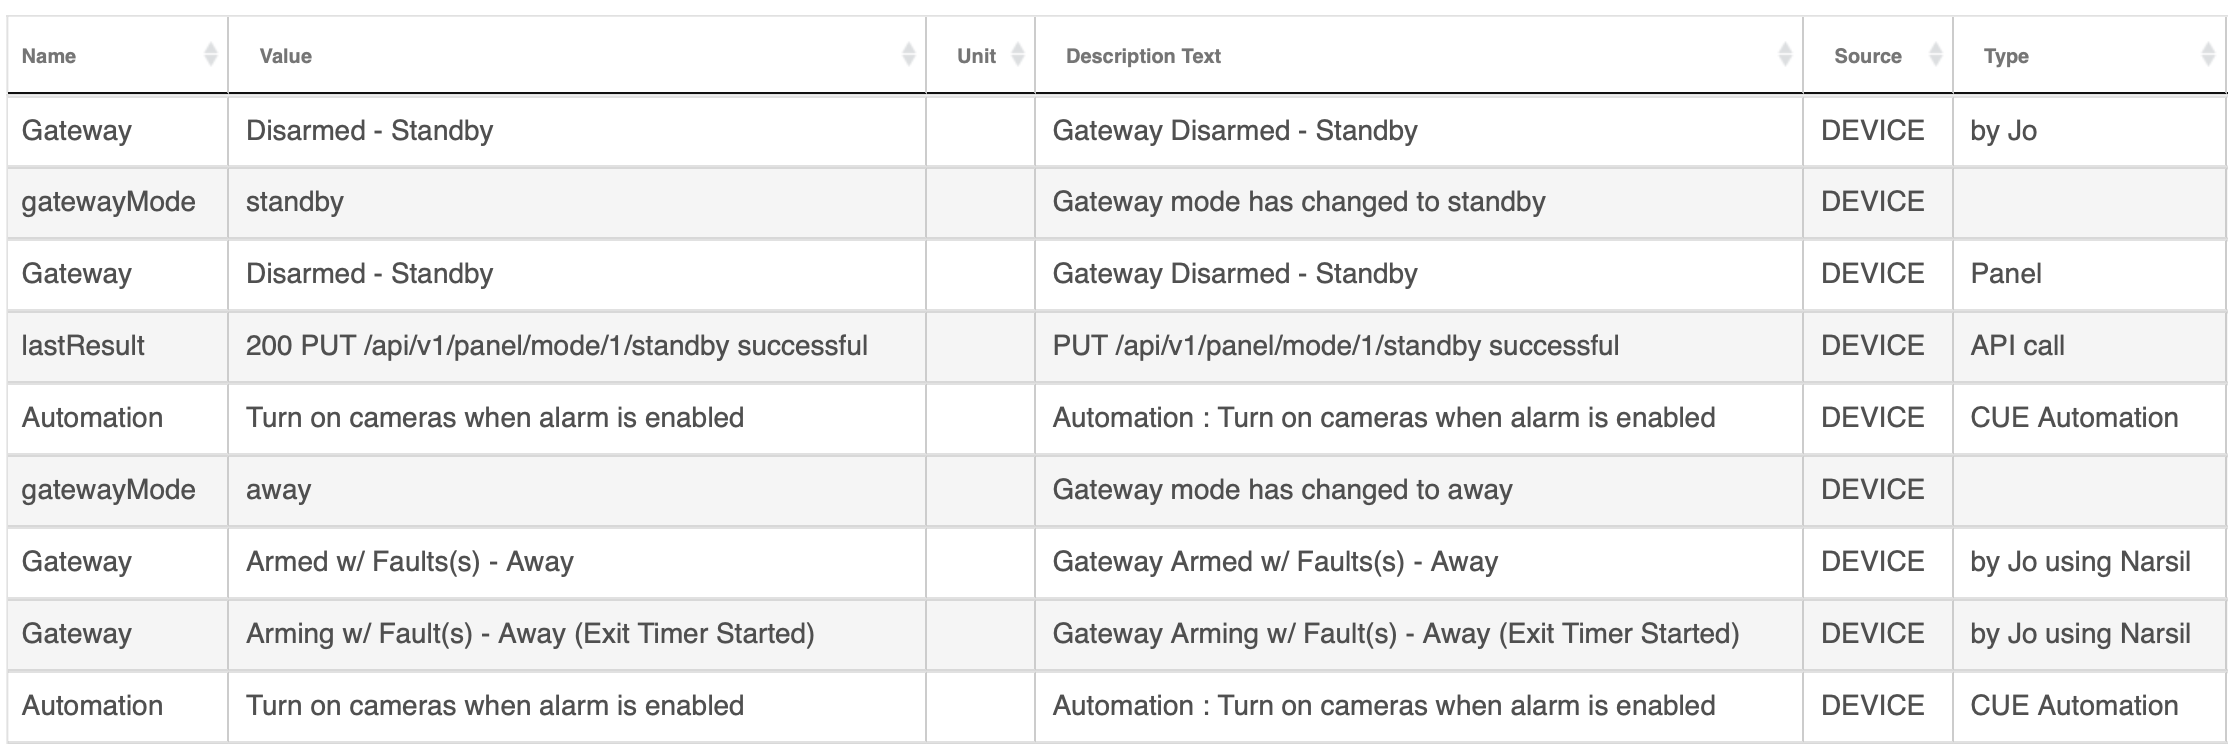
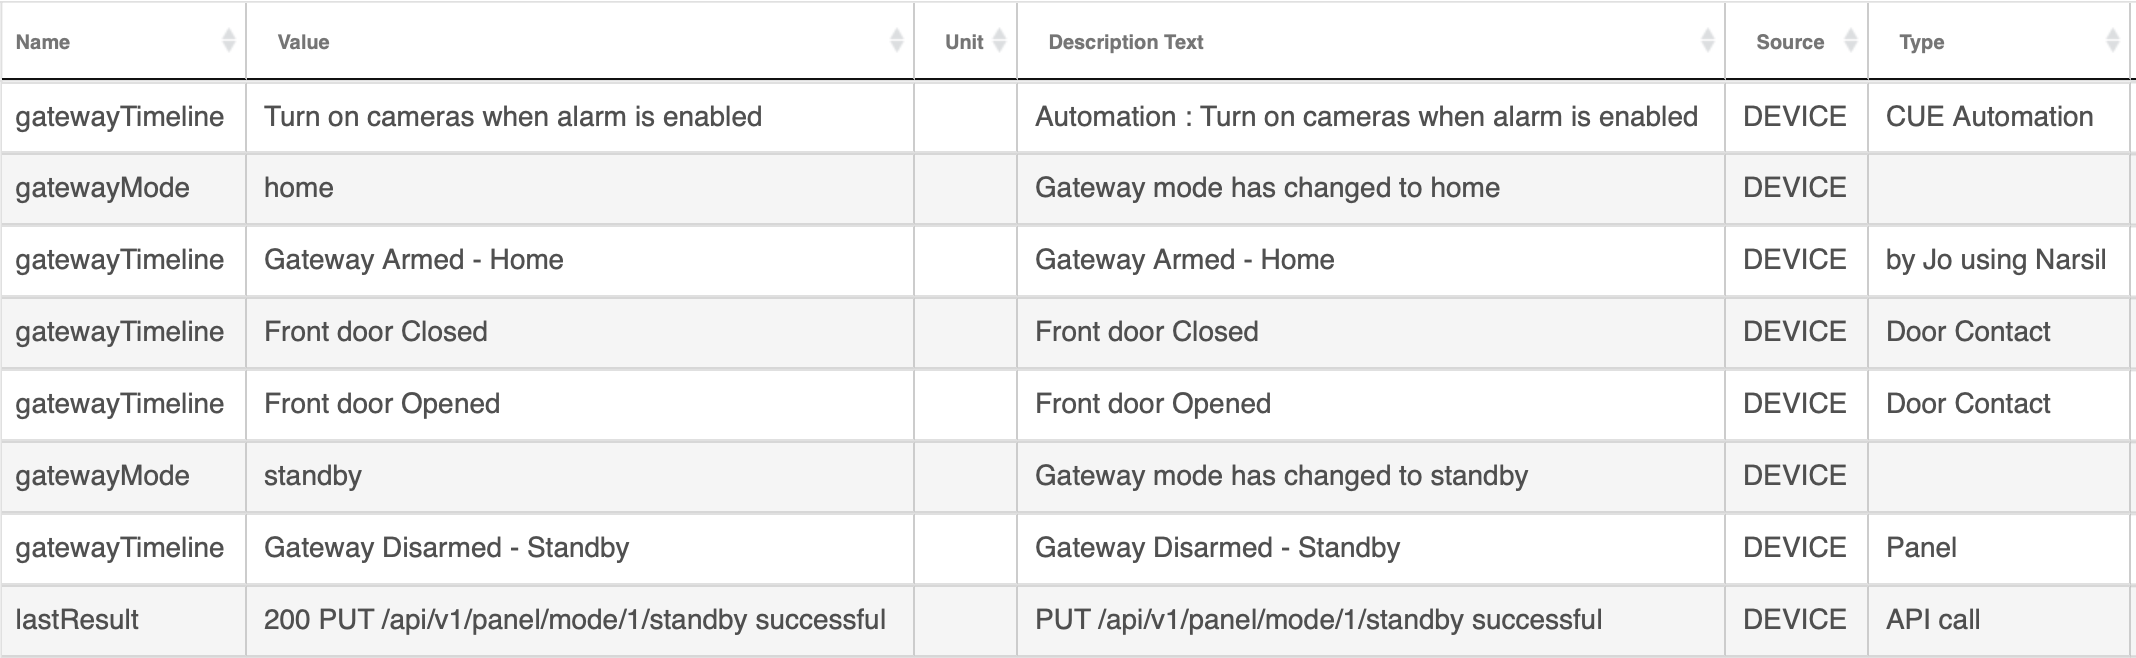
Allow subscription to Abode gateway.timeline events
Add attribute gatewayTimeline for event subscription to Abode gateway timeline events
Add attribute lastResult for event subscription to Abode portal results
Move the driver into drivers/ directory, to allow both drivers and apps in this repo
Test inconsistent fields in websocket message json to avoid null references

Changed region(s): [[0.0, 0.0, 1.0, 1.0], [0.4017, 0.6687, 0.4326, 0.7295], [0.4017, 0.4863, 0.4326, 0.5167]]

diff --git a/CHANGELOG.md b/CHANGELOG.md
@@ -4,6 +4,21 @@ The format is based on [Keep a Changelog](http://keepachangelog.com/en/1.0.0/)
 
 This project adheres to [Semantic Versioning](http://semver.org/spec/v2.0.0.html)
 
+## 2020-04-04 Beta Release 0.7.0
+
+### Added
+
+- New attribute gatewayTimeline allows event subscription to Abode gateway timeline events
+- New attribute lastResult allows event subscription to Abode portal interactions
+
+### Changed
+
+- Moved the driver into drivers/ directory, to allow both drivers and apps in this repo
+
+### Fixed
+
+- Inconsistent fields in websocket messages sometimes caused attempts to dereference null fields
+
 ## 2020-03-31 Beta Release 0.6.3
 
 ### Fixes

diff --git a/README.md b/README.md
@@ -20,7 +20,7 @@ Follow Hubitat's instructions for adding new driver code:
   [https://docs.hubitat.com/index.php?title=How_to_Install_Custom_Drivers](https://docs.hubitat.com/index.php?title=How_to_Install_Custom_Drivers)
 
 Import the driver from following URL:
-  [https://raw.githubusercontent.com/jorhett/hubitat-abode/master/AbodeAlarm.groovy](https://github.com/jorhett/hubitat-abode/blob/master/AbodeAlarm.groovy)
+  [https://raw.githubusercontent.com/jorhett/hubitat-abode/v0/drivers/AbodeAlarm.groovy](https://github.com/jorhett/hubitat-abode/blob/v0/drivers/AbodeAlarm.groovy)
 
 ## Requirements
 
